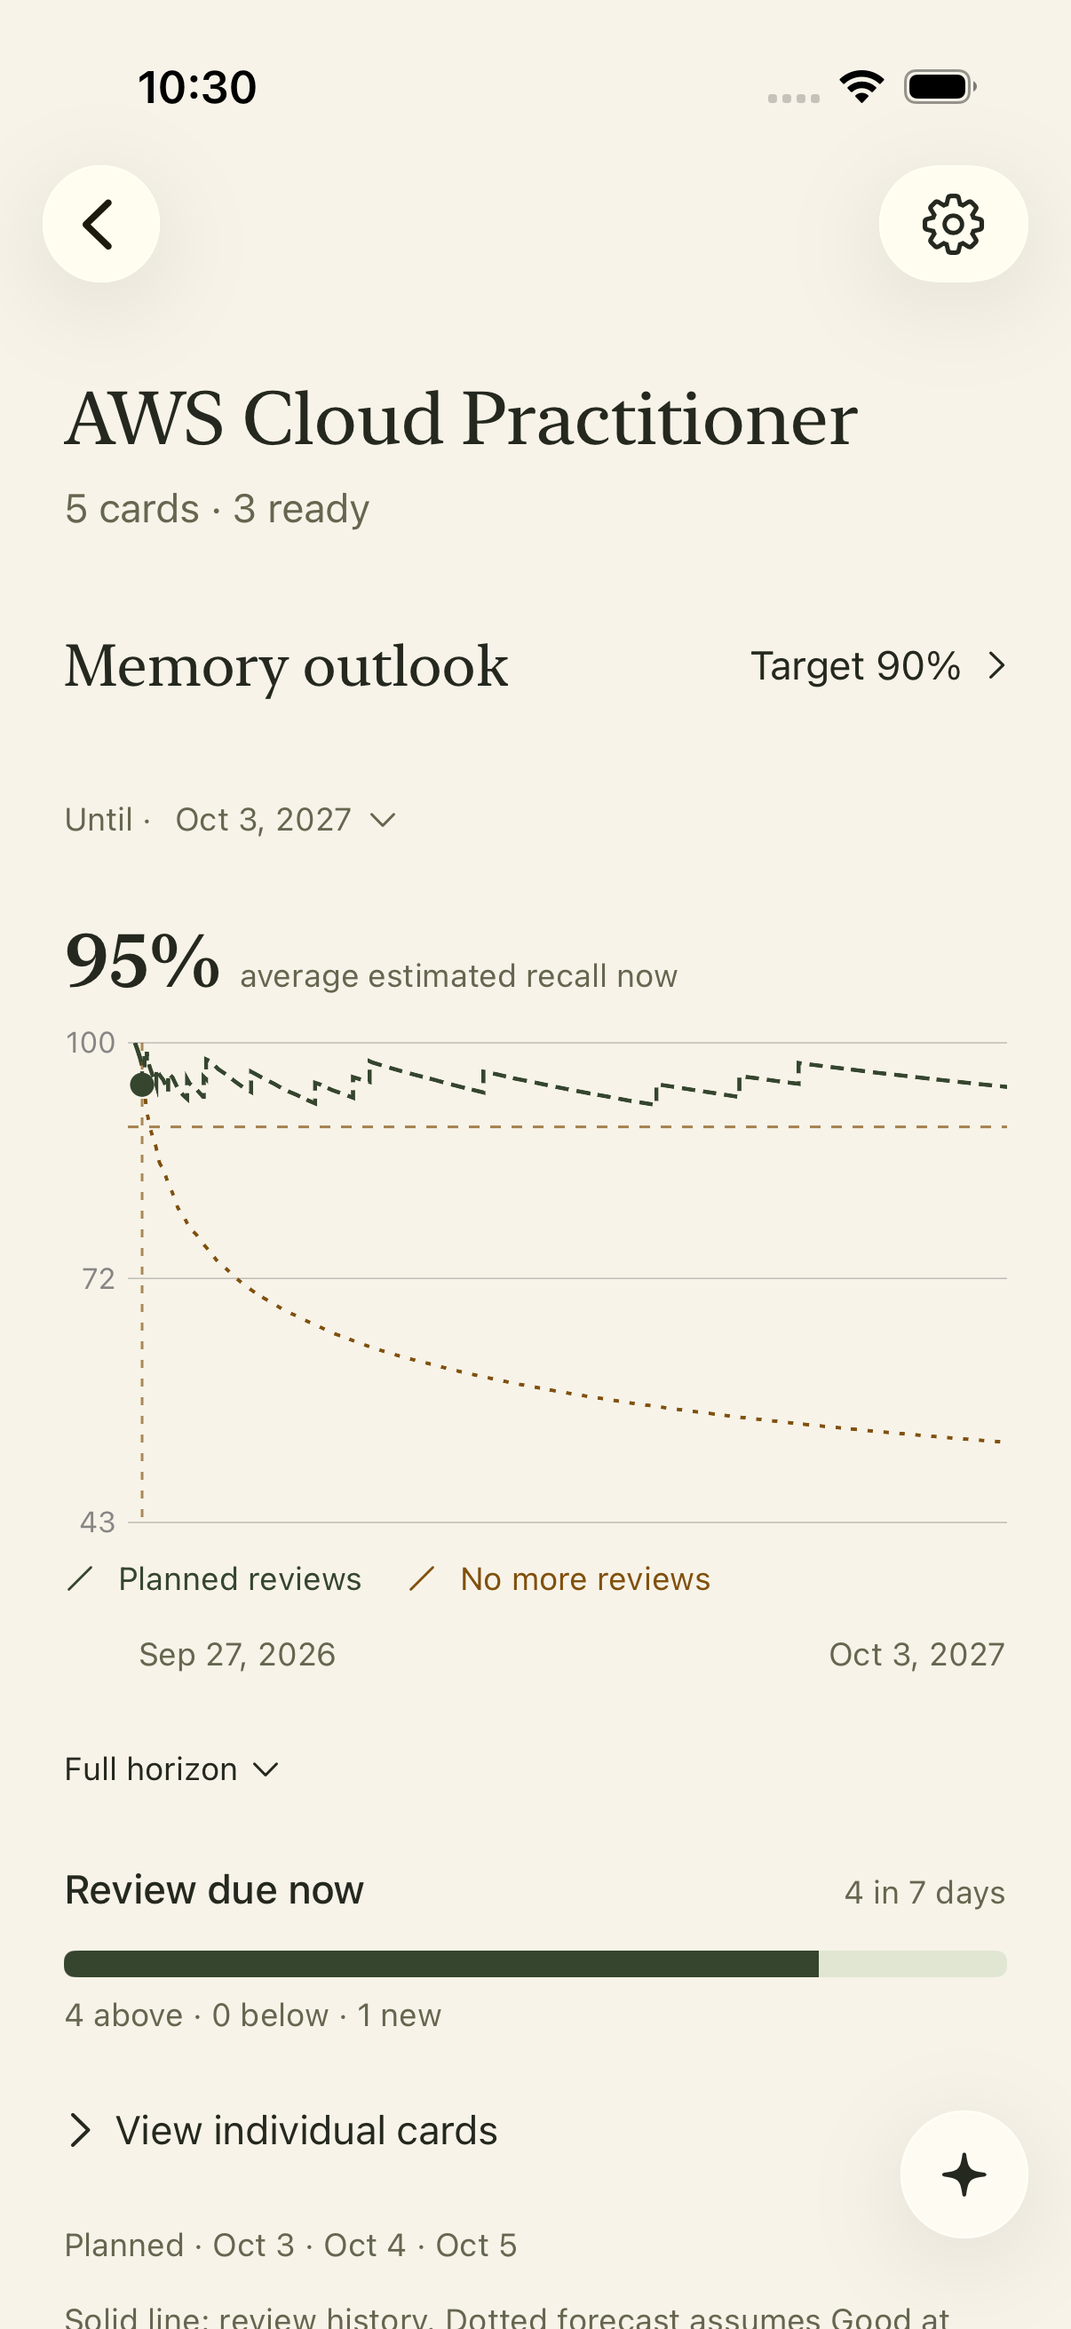
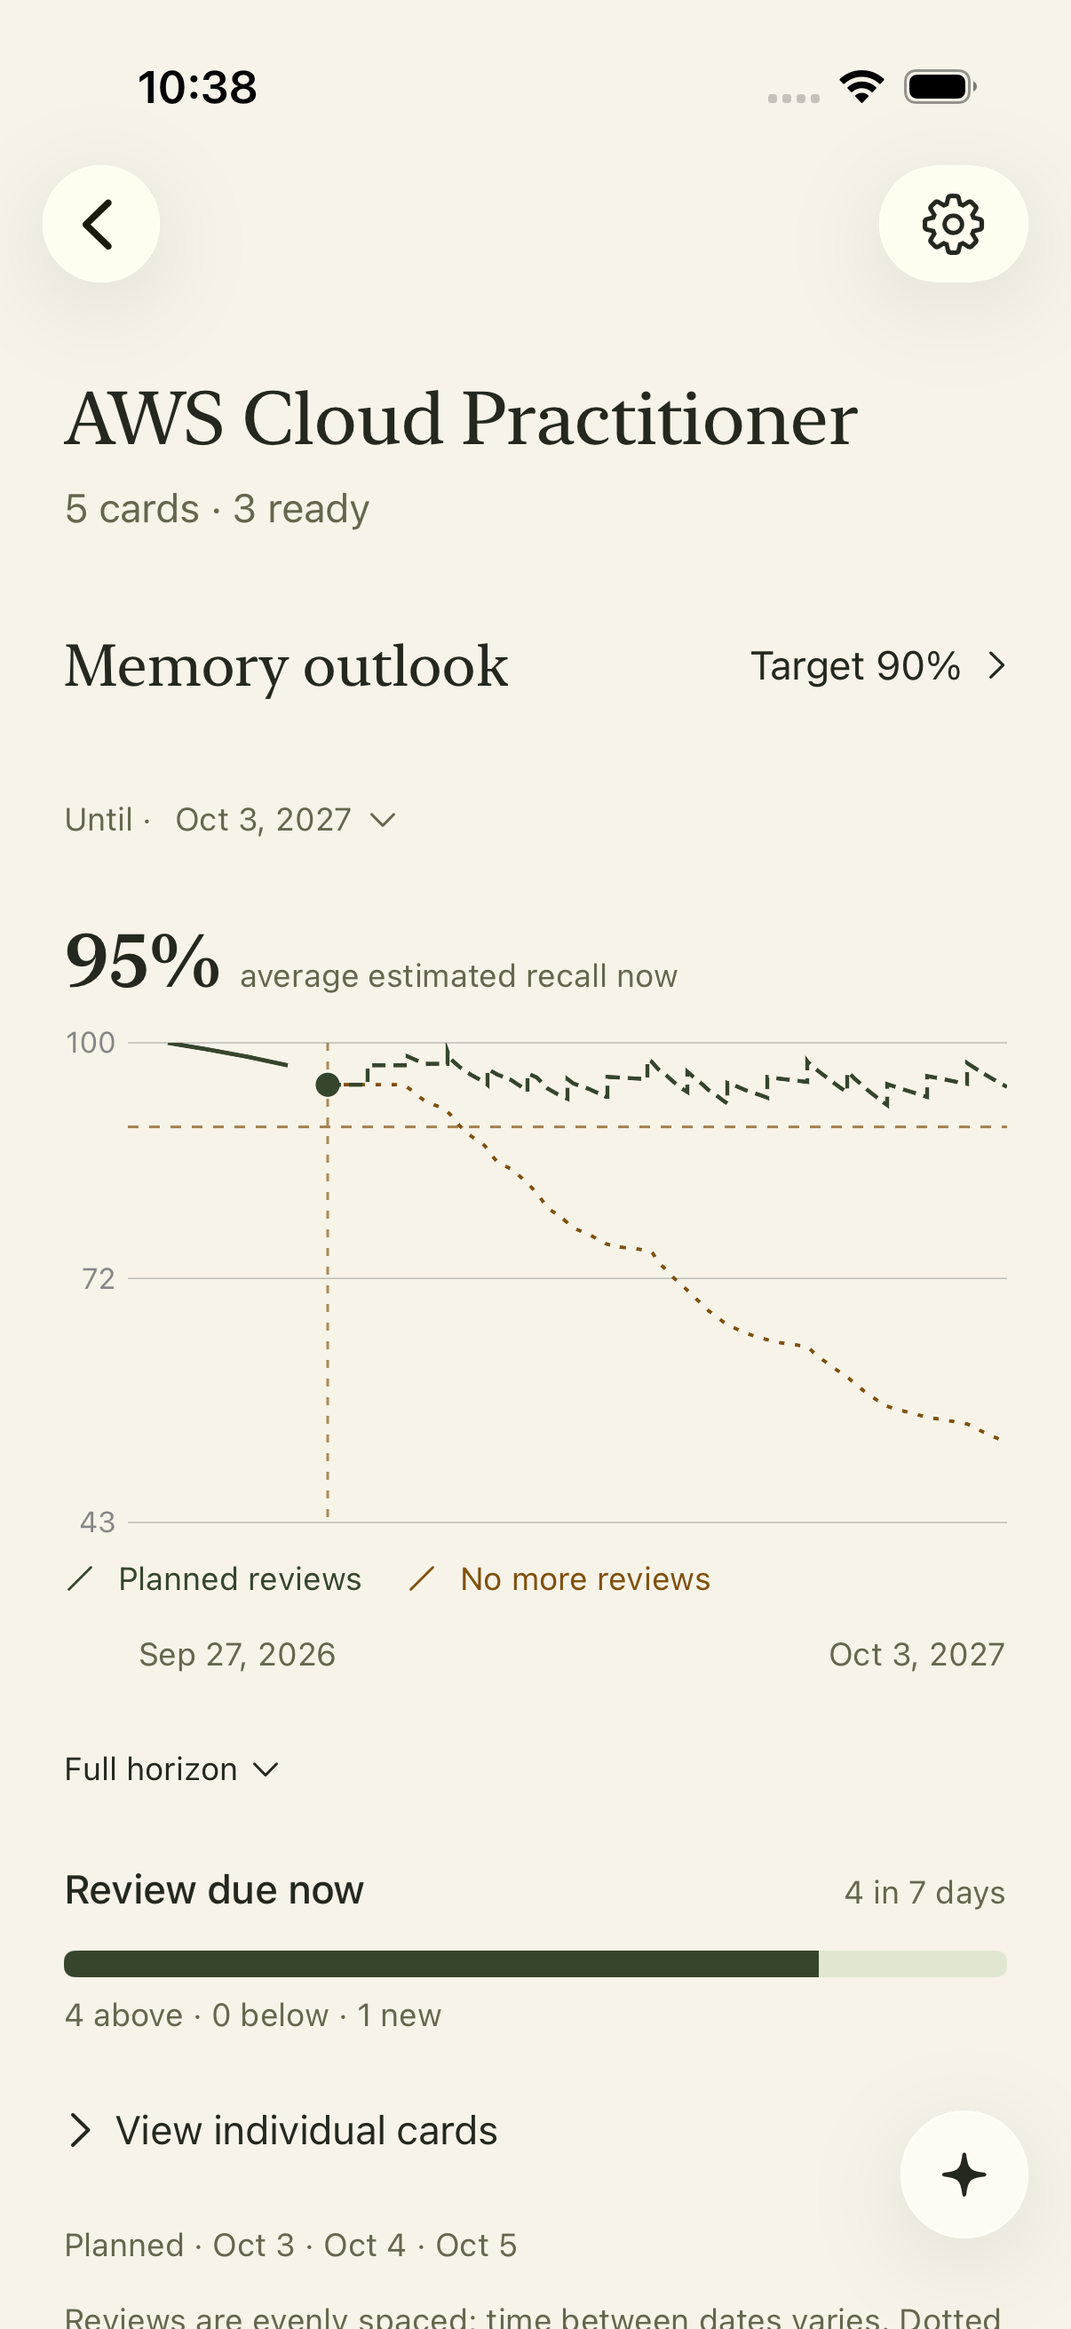
Space review steps evenly and scroll retention chart continuously

diff --git a/Sources/Features/DeckMemoryPanel.swift b/Sources/Features/DeckMemoryPanel.swift
@@ -12,8 +12,8 @@ struct DeckMemoryPanel: View {
     @Environment(\.accessibilityReduceMotion) private var reduceMotion
     @State private var outlook: DeckMemoryOutlook?
     @State private var selectedCardID: String?
-    @State private var inspectedDate: Date?
-    @State private var windowAnchor: Date?
+    @State private var inspectedStep: Double?
+    @State private var reviewScroll = 0.0
     @State private var windowMonths = 2
     @State private var editingTarget = false
     @State private var useCustomTarget = false
@@ -34,7 +34,9 @@ struct DeckMemoryPanel: View {
 
     var body: some View {
         if let outlook {
-            let window = MemoryGraphWindow.interval(anchor: windowAnchor ?? model.now, months: windowMonths, start: outlook.startDate, end: outlook.sampleDates.last ?? model.now.addingTimeInterval(1))
+            let scale = ReviewStepScale(start: outlook.startDate, now: model.now, end: outlook.sampleDates.last ?? model.now.addingTimeInterval(1), reviews: (selected?.history ?? outlook.history).map(\.date) + (selected?.reviewDates ?? outlook.reviewDates))
+            let visibleSteps = scale.visibleSteps(months: windowMonths, now: model.now)
+            let window = DateInterval(start: scale.date(at: reviewScroll), end: scale.date(at: min(scale.maximum, reviewScroll + visibleSteps)))
             VStack(alignment: .leading, spacing: 14) {
                 HStack {
                     Text("Memory outlook").font(theme.font(.section))
@@ -68,7 +70,7 @@ struct DeckMemoryPanel: View {
                     let axis = DeckMemoryOutlook.recallAxisDomain(plateau: values.last)
                     Chart {
                         ForEach(selected?.history ?? outlook.history) { point in
-                            LineMark(x: .value("Date", point.date), y: .value("Recall", point.probability * 100), series: .value("Period", "Recorded reviews"))
+                            LineMark(x: .value("Review step", scale.position(point.date)), y: .value("Recall", point.probability * 100), series: .value("Period", "Recorded reviews"))
                                 .foregroundStyle(curveColor).lineStyle(StrokeStyle(lineWidth: 1.6))
                         }
 
@@ -76,51 +78,45 @@ struct DeckMemoryPanel: View {
                             .foregroundStyle(palette.accentInk.opacity(0.7))
                             .lineStyle(StrokeStyle(lineWidth: 1, dash: [4, 4]))
                         if let plannedDate {
-                            RuleMark(x: .value("Planned review", plannedDate))
+                            RuleMark(x: .value("Planned review", scale.position(plannedDate)))
                                 .foregroundStyle(palette.accentInk.opacity(0.65))
                                 .lineStyle(StrokeStyle(lineWidth: 1, dash: [3, 4]))
                         }
                         ForEach(values.enumerated().map { Point(id: $0.offset, date: outlook.sampleDates[$0.offset], probability: $0.element) }) { point in
-                            LineMark(x: .value("Date", point.date), y: .value("Recall", point.probability * 100), series: .value("Period", "Forecast"))
+                            LineMark(x: .value("Review step", scale.position(point.date)), y: .value("Recall", point.probability * 100), series: .value("Period", "Forecast"))
                                 .foregroundStyle(palette.answerSelectionInk)
                                 .lineStyle(StrokeStyle(lineWidth: 1.3, dash: [2, 4]))
                                 .interpolationMethod(.monotone)
                         }
                         ForEach(selected?.projection ?? outlook.projection) { point in
-                            LineMark(x: .value("Date", point.date), y: .value("Recall", point.probability * 100), series: .value("Period", "Planned reviews"))
+                            LineMark(x: .value("Review step", scale.position(point.date)), y: .value("Recall", point.probability * 100), series: .value("Period", "Planned reviews"))
                                 .foregroundStyle(curveColor).lineStyle(StrokeStyle(lineWidth: 1.5, dash: [5, 3]))
                                 .interpolationMethod(.linear)
                         }
-                        if let inspectedDate, let date = (selected?.reviewDates ?? outlook.reviewDates).min(by: { abs($0.timeIntervalSince(inspectedDate)) < abs($1.timeIntervalSince(inspectedDate)) }) {
-                            RuleMark(x: .value("Selected review", date))
+                        if let inspectedStep, let date = (selected?.reviewDates ?? outlook.reviewDates).min(by: { abs($0.timeIntervalSince(scale.date(at: inspectedStep))) < abs($1.timeIntervalSince(scale.date(at: inspectedStep))) }) {
+                            RuleMark(x: .value("Selected review", scale.position(date)))
                                 .foregroundStyle(palette.accentInk)
                                 .annotation(position: .top) { Text(date, format: .dateTime.month(.abbreviated).day()).font(.caption2).foregroundStyle(palette.primaryText) }
                         }
-                        PointMark(x:.value("Today",model.now),y:.value("Recall today",(values.first ?? 0) * 100))
+                        PointMark(x:.value("Today",scale.position(model.now)),y:.value("Recall today",(values.first ?? 0) * 100))
                             .foregroundStyle(curveColor).symbolSize(64)
                     }
                     .chartYScale(domain: axis)
                     .chartPlotStyle { plot in plot.clipped() }
-                    .chartXScale(domain: window.start...window.end)
-                    .chartOverlay { proxy in
-                        GeometryReader { geometry in
-                            Rectangle().fill(.clear).contentShape(Rectangle())
-                                .gesture(DragGesture(minimumDistance: 24).onEnded { drag in
-                                    guard windowMonths > 0, abs(drag.translation.width) > abs(drag.translation.height) * 1.5 else { return }
-                                    moveWindow(drag.translation.width < 0 ? 1 : -1, window: window)
-                                })
-                                .simultaneousGesture(SpatialTapGesture().onEnded { tap in
-                                    guard let frame = proxy.plotFrame else { return }
-                                    inspectedDate = proxy.value(atX: tap.location.x - geometry[frame].origin.x, as: Date.self)
-                                })
-                        }
-                    }
+                    .chartXScale(domain: 0...scale.maximum)
+                    .chartScrollableAxes(.horizontal)
+                    .chartXVisibleDomain(length: visibleSteps)
+                    .chartScrollPosition(x: $reviewScroll)
+                    .chartXSelection(value: $inspectedStep)
+                    .onChange(of: windowMonths) { _, _ in reviewScroll = min(scale.position(model.now), max(0, scale.maximum - visibleSteps)); inspectedStep = nil }
+                    .onChange(of: selectedCardID) { _, _ in reviewScroll = min(scale.position(model.now), max(0, scale.maximum - visibleSteps)); inspectedStep = nil }
+                    .onAppear { reviewScroll = min(scale.position(model.now), max(0, scale.maximum - visibleSteps)) }
                     .chartXAxis(.hidden)
                     .chartYAxis { AxisMarks(position: .leading, values: [axis.lowerBound, ((axis.lowerBound + 100) / 2).rounded(), 100]) }
                     .frame(height: 180)
                     .accessibilityIdentifier("deck-retention-chart")
-                    .accessibilityAction(named: "Next window") { moveWindow(1, window: window) }
-                    .accessibilityAction(named: "Previous window") { moveWindow(-1, window: window) }
+                    .accessibilityAction(named: "Next window") { reviewScroll = min(max(0, scale.maximum - visibleSteps), reviewScroll + visibleSteps) }
+                    .accessibilityAction(named: "Previous window") { reviewScroll = max(0, reviewScroll - visibleSteps) }
                     .animation(reduceMotion ? nil : .easeOut(duration: 0.25), value: selectedCardID)
                     .accessibilityLabel("Estimated recall \(Int((values.first ?? 0) * 100)) percent today, against a \(Int(outlook.target * 100)) percent target; forecast assumes Good at each planned review")
                     HStack(spacing: 16) {
@@ -136,10 +132,10 @@ struct DeckMemoryPanel: View {
                         Button("2 months") { setWindow(2) }
                         Button("3 months") { setWindow(3) }
                         Button("Full horizon") { setWindow(0) }
-                        if windowMonths > 0 { Button("Back to today") { windowAnchor = nil; inspectedDate = nil } }
+                        if windowMonths > 0 { Button("Back to today") { reviewScroll = min(scale.position(model.now), max(0, scale.maximum - visibleSteps)); inspectedStep = nil } }
                     } label: {
                         HStack(spacing: 4) {
-                            Text(windowMonths == 0 ? "Full horizon" : "\(windowMonths) months")
+                            Text(windowMonths == 0 ? "Full horizon" : windowMonths == 1 ? "1-month starting view" : "\(windowMonths)-month starting view")
                             Image(systemName: "chevron.down").font(.caption2)
                         }.font(.caption).frame(minHeight: 44)
                     }.accessibilityIdentifier("deck-graph-range")
@@ -183,7 +179,7 @@ struct DeckMemoryPanel: View {
                     Text("Planned · " + (selected?.reviewDates ?? outlook.reviewDates).filter { window.contains($0) }.prefix(3).map { $0.formatted(.dateTime.month(.abbreviated).day()) }.joined(separator: " · "))
                         .font(.caption).foregroundStyle(palette.secondaryText)
                 }
-                Text("Solid line: review history. Dotted forecast assumes Good at due dates; actual answers and daily limits can change it. Scale starts 10 points below the no-more-reviews curve’s endpoint. New and unsupported cards are excluded.")
+                Text("Reviews are evenly spaced; time between dates varies. Dotted forecast assumes Good at due dates. New and unsupported cards are excluded.")
                     .font(.caption).foregroundStyle(palette.secondaryText)
             }
             .task(id: "\(model.library.revision)-\(deck.id)-\(Int(model.now.timeIntervalSince1970 / 60))") {
@@ -248,12 +244,7 @@ struct DeckMemoryPanel: View {
     }
 
     private func setWindow(_ months: Int) {
-        windowMonths = months; windowAnchor = nil; inspectedDate = nil
-    }
-    private func moveWindow(_ direction: Int, window: DateInterval) {
-        guard windowMonths > 0 else { return }
-        windowAnchor = Calendar.current.date(byAdding: .month, value: direction * windowMonths, to: window.start)
-        inspectedDate = nil
+        windowMonths = months; inspectedStep = nil
     }
 
     private var useDeadline: Bool { (deck.examDate ?? .distantPast) > model.now }

diff --git a/Tests/EngramTests/DeckMemoryOutlookTests.swift b/Tests/EngramTests/DeckMemoryOutlookTests.swift
@@ -47,22 +47,27 @@ final class DeckMemoryOutlookTests: XCTestCase {
         XCTAssertEqual(activity.decks.first?.counts[.belowTarget], 1)
     }
 
-    func testCalendarMonthWindowsAndBoundaries() {
-        var calendar = Calendar(identifier: .gregorian); calendar.timeZone = .gmt
-        let now = calendar.date(from: DateComponents(year: 2026, month: 10, day: 3))!
-        let start = calendar.date(byAdding: .month, value: -1, to: now)!
-        let end = calendar.date(byAdding: .year, value: 1, to: now)!
-        let first = MemoryGraphWindow.interval(anchor: now, months: 2, start: start, end: end, calendar: calendar)
-        XCTAssertEqual(first.start, now)
-        XCTAssertEqual(first.end, calendar.date(from: DateComponents(year: 2026, month: 12, day: 3)))
-        let next = MemoryGraphWindow.interval(anchor: first.end, months: 2, start: start, end: end, calendar: calendar)
-        XCTAssertEqual(next.start, first.end)
-        XCTAssertEqual(next.end, calendar.date(from: DateComponents(year: 2027, month: 2, day: 3)))
-        let last = MemoryGraphWindow.interval(anchor: end, months: 2, start: start, end: end, calendar: calendar)
-        XCTAssertEqual(last.end, end)
-        XCTAssertLessThan(last.start, last.end)
-        XCTAssertEqual(MemoryGraphWindow.interval(anchor: start.addingTimeInterval(-100), months: 2, start: start, end: end, calendar: calendar).start, start)
-        XCTAssertEqual(MemoryGraphWindow.interval(anchor: now, months: 0, start: start, end: end, calendar: calendar), DateInterval(start: start, end: end))
+    func testReviewStepsAreEqualDespiteDifferentTimeIntervals() {
+        let start = Date(timeIntervalSince1970: 0)
+        let first = start.addingTimeInterval(86_400)
+        let second = start.addingTimeInterval(10 * 86_400)
+        let third = start.addingTimeInterval(100 * 86_400)
+        let end = start.addingTimeInterval(365 * 86_400)
+        let scale = ReviewStepScale(start: start, now: start, end: end, reviews: [third, first, second, first])
+        XCTAssertEqual(scale.position(first), 1)
+        XCTAssertEqual(scale.position(second), 2)
+        XCTAssertEqual(scale.position(third), 3)
+        let middle = first.addingTimeInterval(second.timeIntervalSince(first) / 2)
+        XCTAssertEqual(scale.position(middle), 1.5, accuracy: 0.001)
+        XCTAssertEqual(scale.date(at: 1.5), middle)
+        XCTAssertEqual(scale.date(at: -1), start)
+        XCTAssertEqual(scale.date(at: 100), end)
+        XCTAssertEqual(scale.visibleSteps(months: 0, now: start), scale.maximum)
+        XCTAssertGreaterThan(scale.visibleSteps(months: 2, now: start), 2)
+        XCTAssertLessThan(scale.visibleSteps(months: 2, now: start), 3)
+        let empty = ReviewStepScale(start: start, now: start, end: start, reviews: [])
+        XCTAssertGreaterThan(empty.maximum, 0)
+        XCTAssertGreaterThan(empty.date(at: empty.maximum), start)
     }
 
     func testPlateauAxisZoomAndSafeFallback() {

diff --git a/Sources/StudyApplication/ReviewStepScale.swift b/Sources/StudyApplication/ReviewStepScale.swift
@@ -1,0 +1,31 @@
+import Foundation
+
+/// Equal-width review intervals. Dates within each interval retain their relative position.
+public struct ReviewStepScale: Sendable {
+    public let dates: [Date]
+    public init(start: Date, now: Date, end: Date, reviews: [Date]) {
+        let end = max(end, start.addingTimeInterval(1))
+        dates = Array(Set([start, min(max(now, start), end), end] + reviews.filter { $0 >= start && $0 <= end })).sorted()
+    }
+    public var maximum: Double { Double(max(1, dates.count - 1)) }
+    public func position(_ date: Date) -> Double {
+        guard let first = dates.first, let last = dates.last, dates.count > 1 else { return 0 }
+        if date <= first { return 0 }
+        if date >= last { return maximum }
+        let upper = dates.firstIndex { $0 >= date }!
+        let lower = upper - 1
+        return Double(lower) + date.timeIntervalSince(dates[lower]) / dates[upper].timeIntervalSince(dates[lower])
+    }
+    public func date(at position: Double) -> Date {
+        guard let first = dates.first, let last = dates.last, dates.count > 1 else { return dates.first ?? .distantPast }
+        if position <= 0 { return first }
+        if position >= maximum { return last }
+        let index = Int(position.rounded(.down))
+        return dates[index].addingTimeInterval(dates[index + 1].timeIntervalSince(dates[index]) * (position - Double(index)))
+    }
+    public func visibleSteps(months: Int, now: Date, calendar: Calendar = .current) -> Double {
+        guard months > 0 else { return maximum }
+        let end = calendar.date(byAdding: .month, value: months, to: now) ?? now
+        return min(maximum, max(1, position(end) - position(now)))
+    }
+}

diff --git a/Tests/EngramUITests/MinimalistStudyUITests.swift b/Tests/EngramUITests/MinimalistStudyUITests.swift
@@ -8,16 +8,16 @@ final class MinimalistStudyUITests: XCTestCase {
         app.buttons["library-deck-ui-deck"].tap()
         let range = app.buttons["deck-graph-range"]
         XCTAssertTrue(range.waitForExistence(timeout: 5))
-        XCTAssertTrue(range.label.contains("2 months"))
+        XCTAssertTrue(range.label.contains("2-month"))
         let dates = app.descendants(matching: .any)["deck-graph-window"].firstMatch
         let initial = dates.label
-        capture("Deck-Two-Months", app)
+        capture("Deck-Even-Reviews", app)
         let chart = app.descendants(matching: .any)["deck-retention-chart"].firstMatch
         chart.swipeLeft()
         XCTAssertTrue(NSPredicate(format: "label != %@", initial).evaluate(with: dates))
-        capture("Deck-Next-Window", app)
+        capture("Deck-Scrolled-Reviews", app)
         chart.swipeRight()
-        XCTAssertEqual(dates.label, initial)
+        XCTAssertNotEqual(dates.label, "")
         range.tap()
         app.buttons["Full horizon"].tap()
         XCTAssertTrue(range.label.contains("Full horizon"))

diff --git a/docs/DECK-RETENTION-HORIZON.md b/docs/DECK-RETENTION-HORIZON.md
@@ -31,3 +31,8 @@ The graph now defaults to a two-calendar-month window beginning at today. Swipin
 
 Validation: all ten focused forecast/window tests passed, including calendar-month boundaries, end-of-horizon clamping and full-horizon bounds. Simulator test testMemoryGraphWindows passed in /tmp/engram-two-month-windows.xcresult, covering the default range, swiping forward/back and selecting Full horizon. Default and next-window screenshots were inspected and archived, with only current/previous images retained per view.
 The signed update installed and launched on the paired iPhone at 22:32 on 3 October 2026.
+
+The horizontal axis now uses review steps, superseding calendar spacing and discrete month paging. Each distinct historical/projected review interval occupies the same width; timestamps inside an interval map proportionally, so original probabilities and review times are preserved. Dates are explicit but elapsed time is no longer uniform. Native Swift Charts horizontal scrolling follows the finger continuously and coasts without page snapping. The two-month starting view determines an initial review-step span; scrolling preserves that span, so the visible calendar duration can vary. The 1/2/3-month starting-view menu, full horizon, Back to today, selected-card curves, fixed no-review Y-axis and native selection remain available. VoiceOver next/previous actions advance the visible step span.
+
+All ten focused tests passed, including equal positions for review dates separated by 1, 10 and 100 days, inverse date mapping, duplicate review timestamps and bounds. Native simulator scrolling and full-horizon selection passed in /tmp/engram-review-steps-scroll.xcresult. Initial and scrolled screenshots were inspected and rotated in current_ui.
+Signed app installed and launched on the paired iPhone at 22:40 on 3 October 2026.
